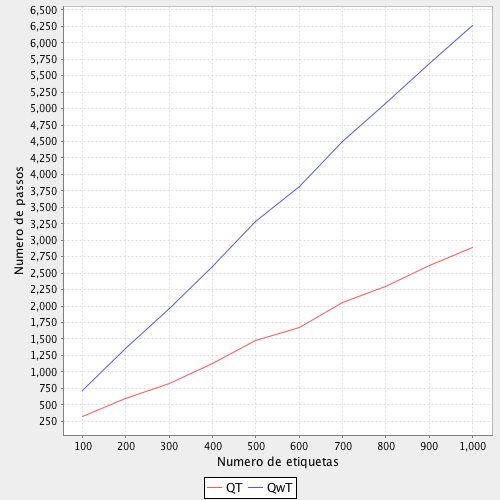
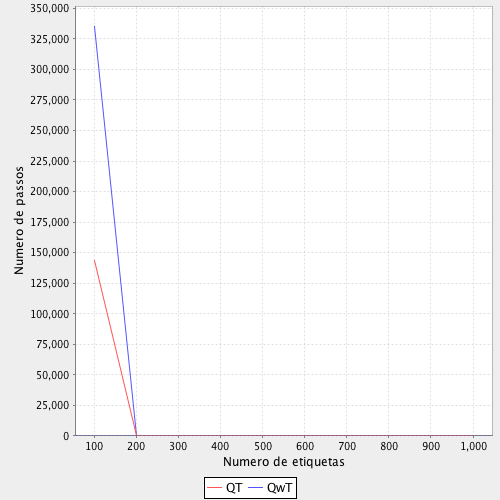
Adaptando QT e QwT para o novo tagLoader

diff --git a/index/tree.html b/index/tree.html
@@ -11,8 +11,8 @@
 <h2>Bits Transmitidos Tag->Leitor</h2><img src="tree/bits-tag-leitor.png" />
 <img src="tree/artigo/bits-tag-leitor.png"  height="500"/>
 <h2>Número de passos</h2>
-<img src="tree/iteracoes.png" />
-<img src="tree/artigo/iteracoes.png"  height="500"/>
+<img src="tree/passos.png" />
+<img src="tree/artigo/passos.png"  height="500"/>
 </body>
 </html>
 

diff --git a/src/tree/Main.java b/src/tree/Main.java
@@ -23,7 +23,7 @@ public class Main {
 
 	public static int bitsTag;
 	public static int bitsReader;
-	public static int iterations;
+	public static int steps;
 
 	public static PrintWriter writer;
 
@@ -61,16 +61,20 @@ public class Main {
 		try {
 			writer = new PrintWriter(csvFileName, "UTF-8");
 			writer.println("Tags,Bits leitor->tag,Bits tag->leitor,iteracoes");
+			
+			int testIterations = 500;
 
 			for(int i=0; i<tagsM.length; i++){
-				iterations = 0;
+				steps = 0;
 				bitsTag = 0;
 				bitsReader = 0;
 				tagsNum = 100*tagsM[i];
 				
-				Tag[] tags = loader.load(tagsNum);
+				Tag[] tags;
 
-				for(int j=1; j<2; j++){
+				for(int j=1; j<=testIterations; j++){
+					tags = loader.load(tagsNum, j);
+					
 					if(chartType == 0) {
 						tree = new QT();
 					} else if(chartType == 1) {
@@ -78,16 +82,16 @@ public class Main {
 					}
 
 					tree.run(tags);
-					iterations += tree.getTotalIterations();
+					steps += tree.getTotalIterations();
 					bitsTag += tree.getTotalBitsTag();
 					bitsReader += tree.getTotalBitsReader();
 				}
 
-				stepsChartData[i][chartType] = iterations;
-				bitsTagChartData[i][chartType] = bitsTag;
-				bitsReaderChartData[i][chartType] = bitsReader;
+				stepsChartData[i][chartType] = steps/testIterations;
+				bitsTagChartData[i][chartType] = bitsTag/testIterations;
+				bitsReaderChartData[i][chartType] = bitsReader/testIterations;
 				
-				writer.println(tagsNum+","+bitsReader+","+bitsTag+","+","+iterations);	
+				writer.println(tagsNum+","+bitsReader/testIterations+","+bitsTag/testIterations+","+","+steps/testIterations);	
 			}
 			writer.close();
 
@@ -104,7 +108,7 @@ public class Main {
 			printCSV("QwT.csv", 1);
 			
 			// Gerar graficos:
-			String iterationsFile = "iteracoes";
+			String iterationsFile = "passos";
 			String bitsReaderFile = "bits-leitor-tag";
 			String bitsTagFile = "bits-tag-leitor";
 			

diff --git a/src/tree/TagLoader.java b/src/tree/TagLoader.java
@@ -1,36 +1,47 @@
 package tree;
 
+import java.io.BufferedReader;
+import java.io.FileInputStream;
 import java.io.IOException;
+import java.io.InputStream;
+import java.io.InputStreamReader;
 import java.nio.charset.Charset;
-import java.nio.file.Files;
-import java.nio.file.Paths;
-import java.util.List;
 
 public class TagLoader {
 	
-	public Tag[] load(int tagNum){
+	public Tag[] load(int tagNum, int fileNumber){
 		
 		Tag[] tags = new Tag[tagNum];
-		String fileName;
+		String fileName = "tags/"+tagNum+"/"+fileNumber+".txt";
 		String tagID;
 		
-		for(int i=1; i<=tagNum; i++){
-			fileName = "tags/" + tagNum + "/" + i;
-			tagID = this.readFile(fileName);
-			tags[i-1] = new Tag(tagID);
+		try{
+		   
+			InputStream fis = new FileInputStream(fileName);
+		    InputStreamReader isr = new InputStreamReader(fis, Charset.forName("UTF-8"));
+		    BufferedReader br = new BufferedReader(isr);
+		    
+		    for (int i = 0; i < tags.length; i++) {
+				tagID = br.readLine();
+				if(tagID != null){
+					tags[i] = new Tag(tagID);
+				}
+			}
+		    
+		    br.close();
+		    
+		} catch (IOException e){
+			e.printStackTrace();
 		}
 		
 		return tags;
 	}
 	
-	public String readFile(String fileName){
-		List<String> lines = null;
-        try {
-            lines = Files.readAllLines(Paths.get(fileName), Charset.defaultCharset());
-        } catch (IOException e) {
-            e.printStackTrace();
-        }
-        return lines.get(0);
+	public static void main(String[] args) {
+		TagLoader loader = new TagLoader();
+		Tag[] tags = loader.load(1000, 1);
+		for (int i = 0; i < tags.length; i++) {
+			System.out.println(tags[i].getID());
+		}
 	}
-
 }

diff --git a/src/tree/SimpleMain.java b/src/tree/SimpleMain.java
@@ -4,7 +4,7 @@ public class SimpleMain {
 	public static void main(String[] args){
 		TagLoader loader = new TagLoader();
 		
-		Tag[] tags = loader.load(1000);
+		Tag[] tags = loader.load(1000, 1);
 		TreeAlgorithm tree = new QT();
 //		TreeAlgorithm tree = new QwT();
 		

diff --git a/src/util/Util.java b/src/util/Util.java
@@ -123,4 +123,8 @@ public class Util {
 			salvarArquivos(qtdTags);
 		}
 	}
+	
+	public static void main(String[] args) {
+		gerarArquivosTags();
+	}
 }
